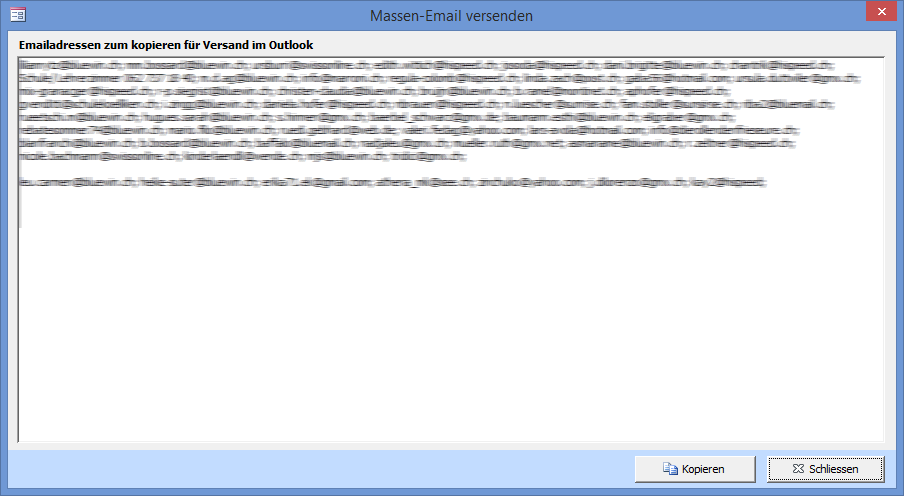
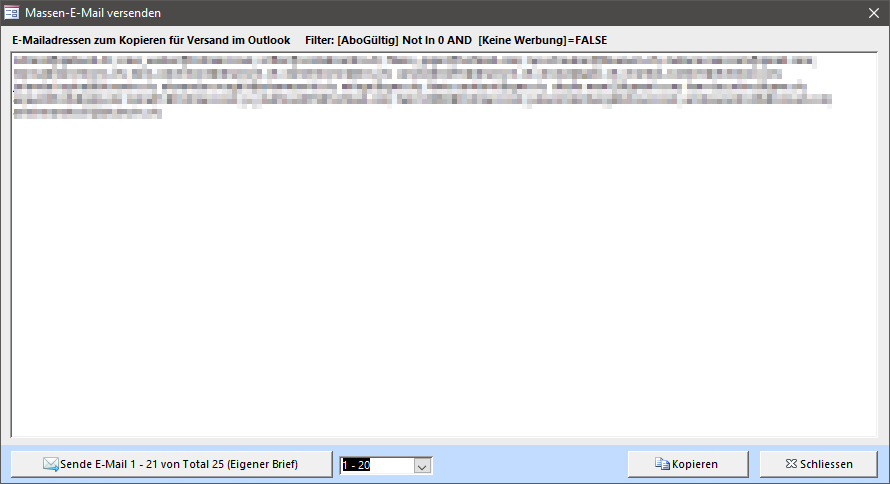
diverse seiten aktualisiert

Changed region(s): [[0.0, 0.0, 1.0, 1.0]]

diff --git a/user/pages/08.statistik-listen/02.adressen/docs.de.md b/user/pages/08.statistik-listen/02.adressen/docs.de.md
@@ -8,28 +8,28 @@ visible: true
 
 Die Liste zeigt alle aktiven Adressen. Gelöschte Adressen werden nicht angezeigt.
 
-![aktive-adressen](../../images/aktive-adressen.png)
-
-Mit <span class="btn-lupo">Adress-Etiketten Zweckform 3664</span> werden alle angezeigten Adressen (ihr Filter wird beachtet!) in Seitenansicht zum Drucken auf Etiketten angezeigt.
-
+![aktive-adressen](../../images/statistik-adressliste.png)
 
 !!!! In allen Listen können Sie die Datensätze sortieren und filtern und in die Zwischenablage kopieren. Um den Listeninhalt zu kopieren, markieren Sie alle Datensätze indem Sie auf die linke Ecke oben in der Liste klicken. Danach drücken Sie <kbd>Ctrl</kbd>+<kbd>c</kbd> um die Daten in die Zwischenablage zu kopieren und danach in ein anderes Programm wie z.B. Word oder Excel um und von dort her formatiert auszudrucken, als Serienbrief-Datenquelle oder sonst wie zu nutzen.
 
-### Adressliste drucken
+### Datentabelle speichern
 
-Das **Adressen drucken** Fenster kann mit **Adressliste drucken** geöffnet werden:
-
-![adressen-drucken](../../images/adressen-drucken.png)
-
-Bestimmen sie durch ankreuzen der entsprechenden Optionen welche Adressen angezeigt werden sollen. Gewisse Optionen können miteinander kombiniert werden.
+Die im Tabellenblatt angezeigten Daten können mit den Knöpfen <span class="btn-lupo">Excel-Export</span> oder <span class="btn-lupo">HTML-Export</span> als entsprechende Datei gespeichert werden. Sortierung und Filter des Datenblattes wird dabei beachtet. Auch können die Datensätze markiert und via Zwischenablage in ein anderes Programm eingefügt werden.
 
 ### E-Mail Massenversand
 
-Wenn Sie auf <span class="btn-lupo">E-Mailadressen kopieren</span> klicken, werden Sie aufgefordert die Paketgrösse der E-Mailadressen anzugeben. Die meisten E-Mailanbieter akzeptieren nur eine bestimmte Anzahl E-Mail-Adressen in einem E-Mail (zum Schutz vor Spamversand). Geben Sie deshalb eine Zahl kleiner als 100 ein. Es werden alle E-Mailadressen der Adressliste in Blöcke an X E-Mailadressen aufgelistet. Erstellen Sie für jeden Block eine einzelne E-Mail. Die E-Mailadressen sollten Sie in das BCC-Feld (Blindkopie) kopieren.
+Wenn Sie auf <span class="btn-lupo">Massen-E-Mail versenden</span> klicken, werden Sie aufgefordert die Paketgrösse der E-Mailadressen anzugeben. Die meisten E-Mailanbieter akzeptieren nur eine bestimmte Anzahl E-Mail-Adressen in einem E-Mail (zum Schutz vor Spamversand). Geben Sie deshalb eine Zahl kleiner als 100 ein. Es werden alle E-Mailadressen der Adressliste in Blöcke an X E-Mailadressen aufgelistet. Erstellen Sie für jeden Block eine einzelne E-Mail. Die E-Mailadressen sollten Sie in das BCC-Feld (Blindkopie) kopieren.
 
-Falls Sie im Adress-Datenblatt einen Filter gesetzt haben wird dieser berücksichtigt.
+Ist im Adress-Datenblatt im Statistik-Fenster ein Filter gesetzt, so wird dieser hier berücksichtigt. So können z.B. einfach alle Adressen ausgewählt werden, welche aktuell ein gültiges Abonnement haben.
 
 ![massenemail-versenden](../../images/massenemail-versenden.png)
+
+### Personalisierte E-Mails verschicken
+
+Anstelle der BCC-Variante kann je Kunde ein Mail erstellt werden. Es wird dabei der in den Briefeinstellungen bei "Eigener Brief" definierte Text genommen und eingesetzte Platzhalter werden dabei mit den kundenspezifischen Werten ersetzt. 
+Der Knopf <span class="btn-lupo">Sende E-Mail 1 - 21 von Total xx (Eigener Brief)</span> erstellt je Kunde via dem in den LUPO-Einstellungen konfigurierten Mailprogramm ein E-Mail. Wenn mit Thunderbird gearbeitet wird, so muss für jedes E-Mail noch der Senden-Knopf geklickt werden. Bei Outlook und SMTP kann das Mail direkt versendet werden.
+
+Unabhängig von der zuvor gewählten E-Mail-Blockgrösse können hier E-Mails in 20er Blöcken generiert werden. Nachdem die Mails 1 - 20 verschickt wurden ist im Dropdown 21-40 auszuwählen usw.
 
 ### Serienbrief in Word
 
@@ -38,3 +38,14 @@ Bei der Installation des LUPO wird die Serienbrief-Vorlage **C:\Lupo_Daten\Serie
 Bevor der Serienbrief angezeigt wird muss folgende Frage mit Ja bestätigt werden:
 
 ![serienbrief-anzeigen](../../images/serienbrief-anzeigen.png)
+
+### Adressetiketten
+Mit <span class="btn-lupo">Adress-Etiketten Zweckform 3664</span> werden alle angezeigten Adressen (definierter Filter wird beachtet!) in Seitenansicht zum Drucken auf Etiketten angezeigt.
+
+### Adressliste drucken
+
+Das **Adressen drucken** Fenster kann mit <span class="btn-lupo">Adressliste drucken</span> geöffnet werden:
+
+![adressen-drucken](../../images/adressen-drucken.png)
+
+Bestimmen Sie durch Ankreuzen der entsprechenden Optionen, welche Adressen angezeigt werden sollen. Gewisse Optionen können miteinander kombiniert werden.

diff --git a/user/pages/03.start/08.datenblatt-filtern-und-sortieren/docs.de.md b/user/pages/03.start/08.datenblatt-filtern-und-sortieren/docs.de.md
@@ -18,11 +18,9 @@ Um den Filter zu entfernen klicken Sie auf den Knopf **Gefiltert** im Datensatzn
 
 Mit dem Feld Suchen kann nach Text im Datenblatt gesucht werden. Schreiben Sie dazu ihr Suchbegriff in das Textfeld und navigieren dann durch mehrfaches drücken von <kbd>Enter</kbd> zu den einzelnen Datensätzen welche den Suchbegriff enthalten.
 
-**Hinweis**  
-Die Filter- und Sortiereinstellungen gehen nach dem **Schliessen** des Formulars **verloren!**
+!!! Nutzen Sie diese Filter- und Sortierfunktionen!** Es sind vielseitig einsetzbare und einfach zu handhabende Funktionen. Sie können so zum Beispiel in den Listen des **Statistikfensters** die Daten sortieren und filtern, um sie nachher via Zwischenablage in Excel zu kopieren, um dort Summen zu berechnen, Diagramme zu erstellen usw.
 
-**Tipp**  
-**Nutzen Sie diese Filter- und Sortierfunktionen!** Es sind vielseitig einsetzbare und einfach zu handhabende Funktionen. Sie können so zum Beispiel in den Listen des **Statistikfensters** die Daten sortieren und filtern, um sie nachher via Zwischenablage in Excel zu kopieren, um dort Summen zu berechnen, Diagramme zu erstellen usw.
+!! **Achtung**: Die Filter- und Sortiereinstellungen gehen nach dem **Schliessen** des Formulars **verloren!**
 
 #### Datensätze markieren
 

diff --git a/user/pages/08.statistik-listen/08.eigene-sqlabfrage/docs.de.md b/user/pages/08.statistik-listen/08.eigene-sqlabfrage/docs.de.md
@@ -1,0 +1,20 @@
+---
+title: 'Eigene SQL-Abfrage'
+taxonomy:
+    category:
+        - docs
+visible: true
+---
+
+Es besteht die Möglichkeit, eigene SQL-Abfragen zu Erstellen und Speichern. Damit können Daten selektiert, verändert, eingefügt oder gelöscht werden. Dies erfordert allerdings einige Datenbank-Programmierkenntnisse und im Rahmen dieser Online-Hilfe wird nicht weiter darauf eingegangen.
+
+Mit der Funktion <span class="btn-lupo">SQL-Datei importieren</span> können vordefinierte Abfragen die Sie z.B. wegen einer Supportanfrage oder mit einen Download von unserer Website erhalten haben eingelesen werden. Eine solche Datei muss auf der ersten Zeile den Abfrage-Titel und im Rest das SQL-Statement enthalten und im ANSI Dateiformat gespeichert sein.
+
+![sql-abfrage](../../images/sql-abfrage.png)
+
+
+###Online SQL-Datenbank
+
+Es steht eine Auswahl von vordefinierten SQL-Abfragen online zur Verfügung. Diese können in die LUPO-Datenbank importiert und lokal ausgeführt werden.
+
+![sql-abfrage](../../images/sql-importieren.png)

diff --git a/user/pages/08.statistik-listen/07.mitarbeiterinnen/docs.de.md b/user/pages/08.statistik-listen/07.mitarbeiterinnen/docs.de.md
@@ -1,13 +1,15 @@
 ---
-title: MitarbeiterInnen
+title: Mitarbeiterinnen
 taxonomy:
     category:
         - docs
 visible: true
 ---
 
-Liste aller aktiven Mitarbeiterinnen. Das Eintrittsdatum wurde beim anhaken der Mitarbeiter Checkbox bestimmt.
+Liste aller aktiven Mitarbeiterinnen. Das Eintrittsdatum wurde beim Anhaken der Mitarbeiterin-Checkbox bestimmt.
 
-![mitarbeiterInnen](../../images/mitarbeiterInnen.png)
+![mitarbeiterInnen](../../images/statistik-mitarbeiterinnen.png)
 
-Mit Adress-Etiketten Zweckform 3664 werden alle angezeigten Adressen (ihr Filter wird beachtet!) in Seitenansicht zum Drucken auf Etiketten angezeigt.
+Der Button <span class="btn-lupo">Massen-E-Mail versenden</span> öffnet ein Fenster, in welchem alle E-Mailadressen der Mitarbeiterinnen aufgelistet werden.
+
+Mit <span class="btn-lupo">Adress-Etiketten Zweckform 3664</span> werden alle angezeigten Adressen (ihr Filter wird beachtet!) in Seitenansicht zum Drucken auf Etiketten angezeigt.

diff --git a/user/pages/08.statistik-listen/01.vordefinierte-statistiken/docs.de.md b/user/pages/08.statistik-listen/01.vordefinierte-statistiken/docs.de.md
@@ -10,6 +10,6 @@ Dieses Fenster kann mit **Übersicht → Statistik und Listen** oder direkt aus 
 
 ![statistik-und-listen](../../images/statistik-und-listen.png)
 
-Diese Datumsspanne (Statistik von … bis …) gilt für die grün geschriebenen Statistiken (bei Ausleihen gilt das Ausleihdatum als Referenz)
+Diese Datumsspanne (Daten anzeigen vom ... bis ...) gilt für die grün geschriebenen Statistiken. Bei Ausleihen gilt das Ausleihdatum als Referenz.
 
 Markieren Sie das Kontrollkästchen für die Statistiken, welche Sie <span class="btn-lupo">Anzeigen</span> oder <span class="btn-lupo">Drucken</span> wollen.
